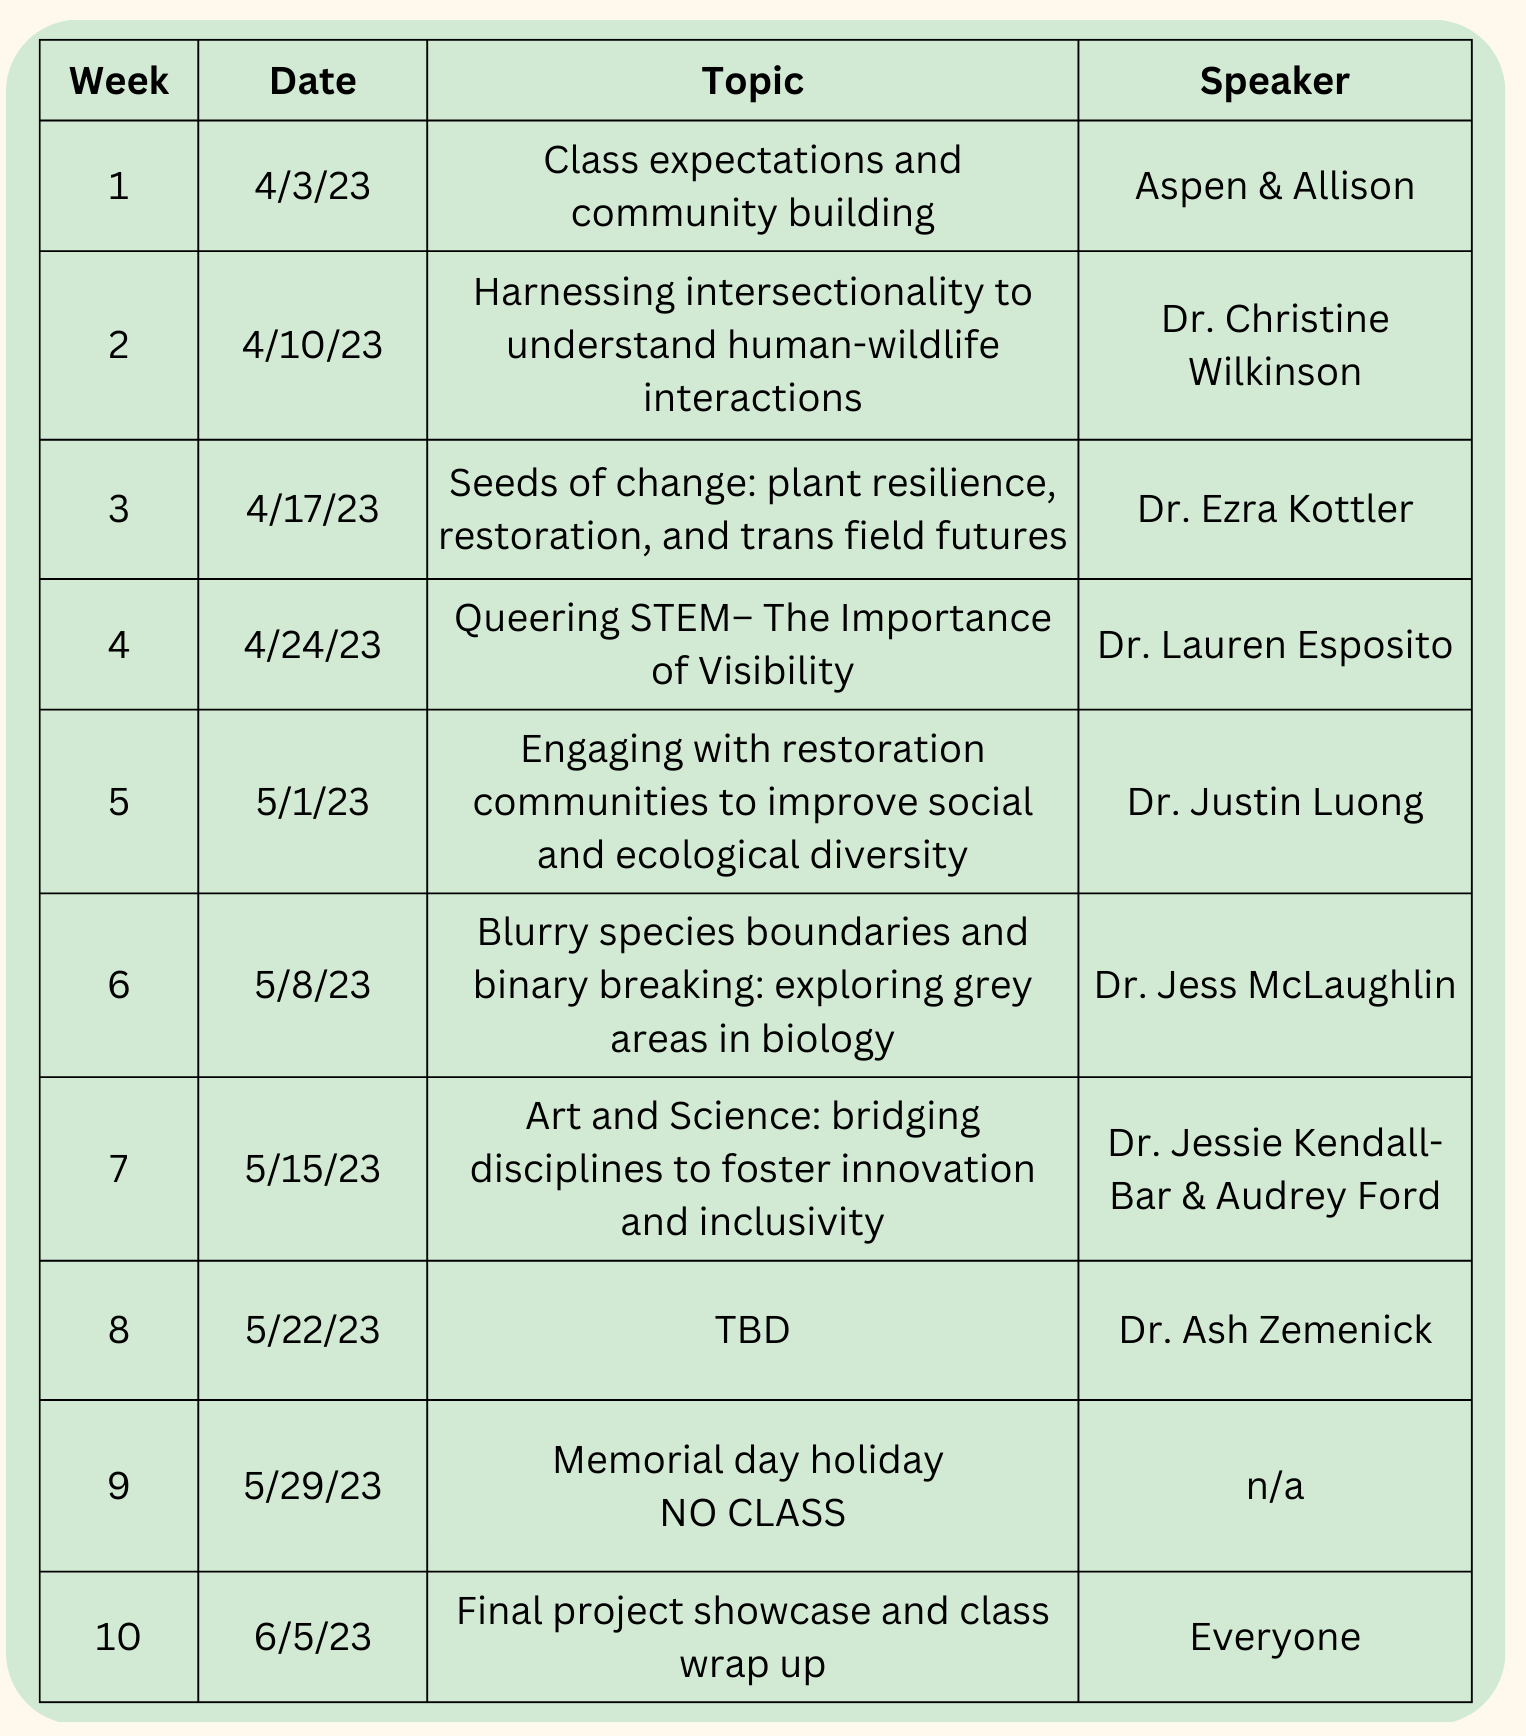
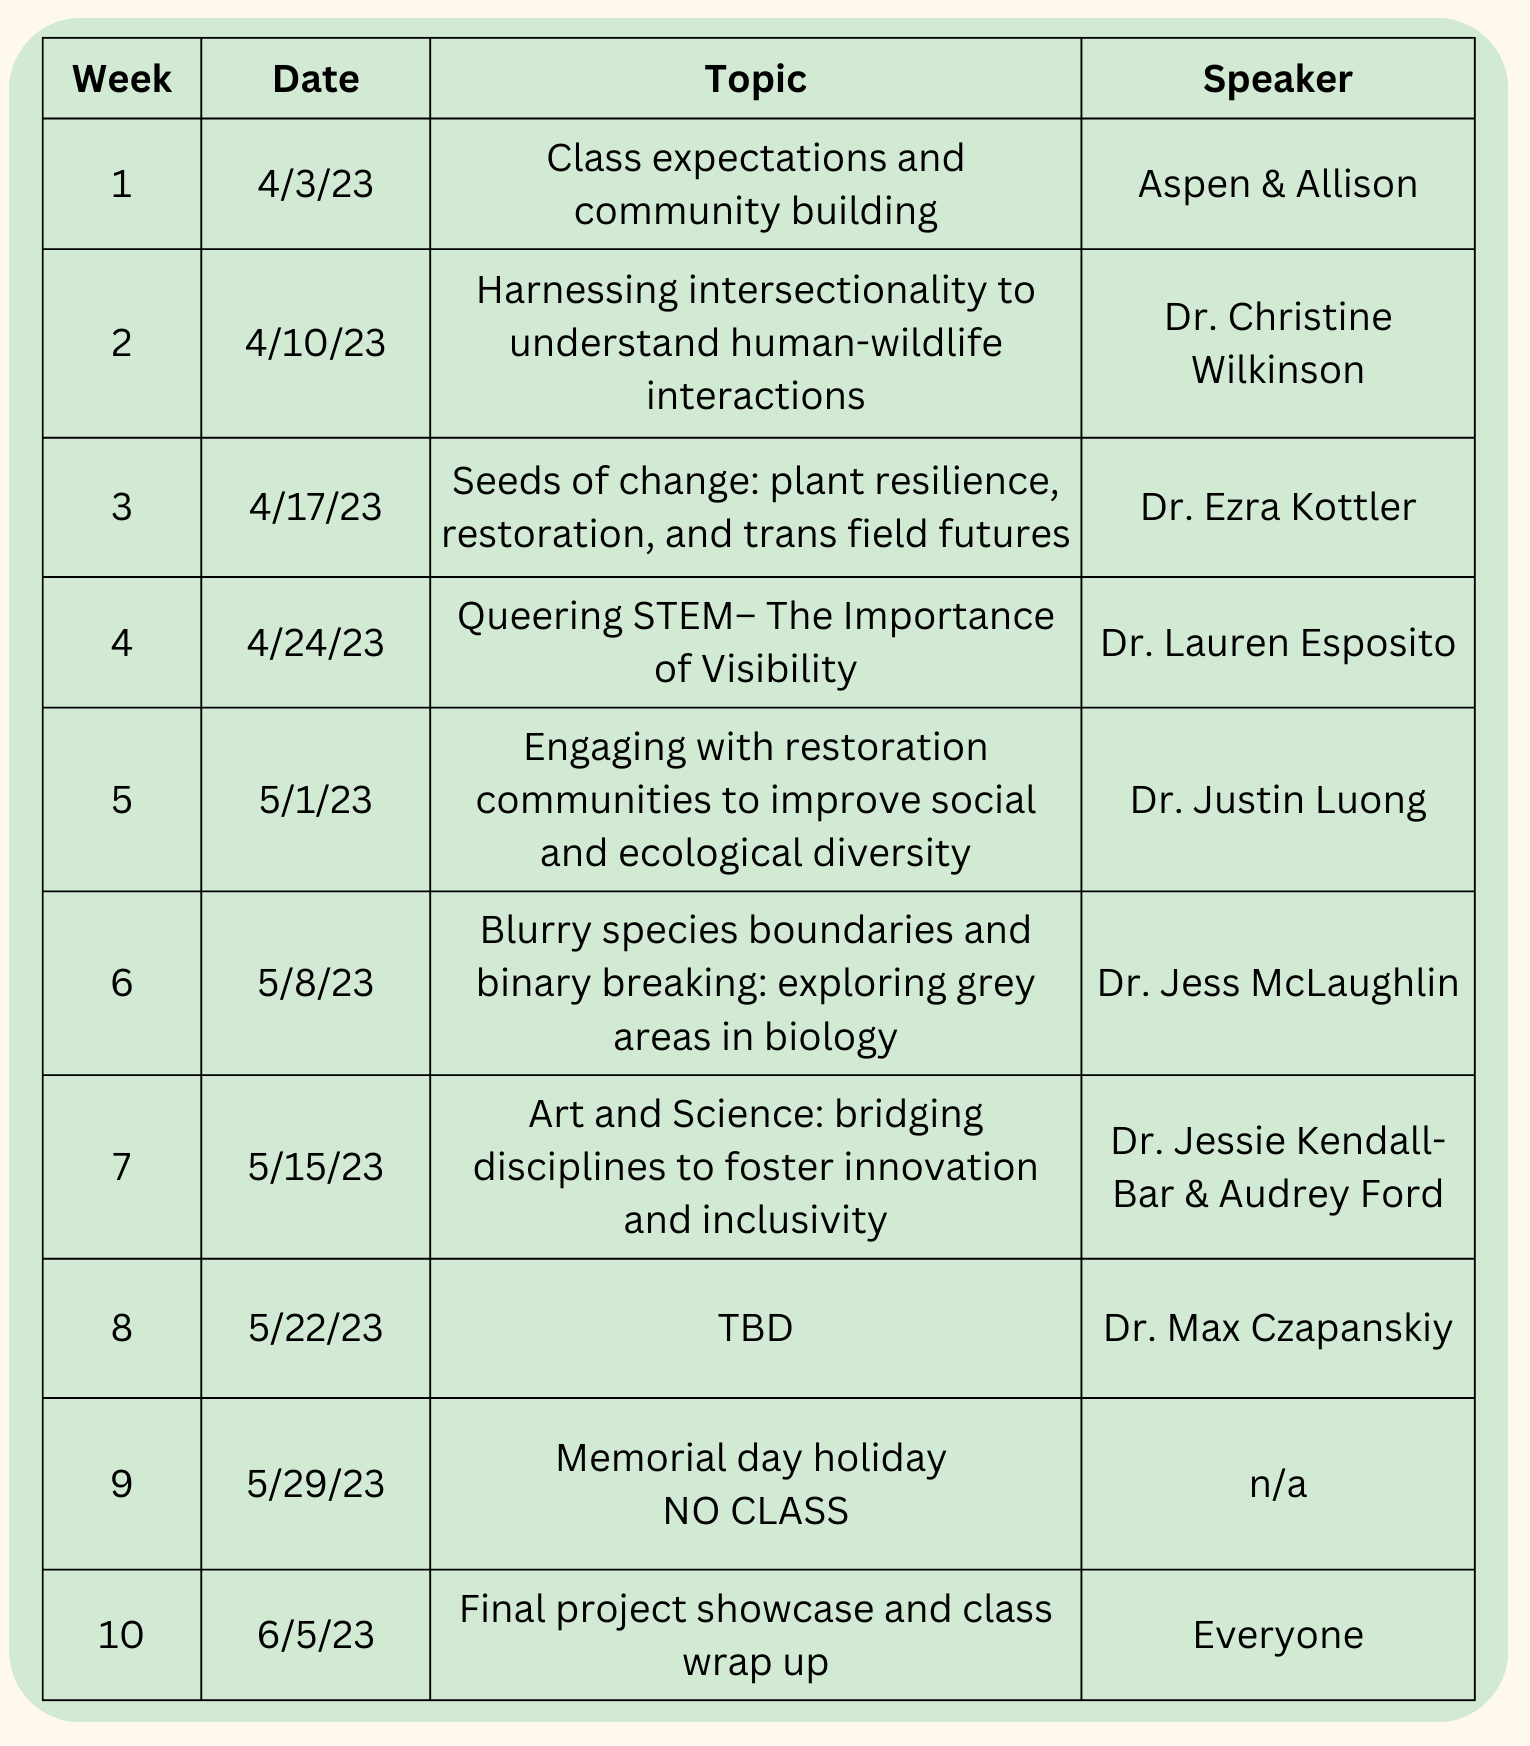
Updating the website with Max's basic information

diff --git a/docs/course/week8.html b/docs/course/week8.html
@@ -161,7 +161,7 @@ ul.task-list li input[type="checkbox"] {
     <h2 id="toc-title">On this page</h2>
    
   <ul>
-  <li><a href="#speaker-dr.-ash-zemenick" id="toc-speaker-dr.-ash-zemenick" class="nav-link active" data-scroll-target="#speaker-dr.-ash-zemenick">Speaker: Dr.&nbsp;Ash Zemenick</a></li>
+  <li><a href="#speaker-dr.-max-czapanskiy" id="toc-speaker-dr.-max-czapanskiy" class="nav-link active" data-scroll-target="#speaker-dr.-max-czapanskiy">Speaker: Dr.&nbsp;Max Czapanskiy</a></li>
   <li><a href="#assigned-reading" id="toc-assigned-reading" class="nav-link" data-scroll-target="#assigned-reading">Assigned reading</a></li>
   </ul>
 </nav>
@@ -186,15 +186,15 @@ ul.task-list li input[type="checkbox"] {
 
 </header>
 
-<section id="speaker-dr.-ash-zemenick" class="level2">
-<h2 class="anchored" data-anchor-id="speaker-dr.-ash-zemenick">Speaker: Dr.&nbsp;Ash Zemenick</h2>
+<section id="speaker-dr.-max-czapanskiy" class="level2">
+<h2 class="anchored" data-anchor-id="speaker-dr.-max-czapanskiy">Speaker: Dr.&nbsp;Max Czapanskiy</h2>
 <div class="columns">
 <div class="column" style="width:35%;">
-<p>More information soon!</p>
+<p><img src="../img/max_headshot.jpeg" class="img-fluid"></p>
 </div><div class="column" style="width:5%;">
 
 </div><div class="column" style="width:60%;">
-
+<p>Max is a postdoctoral scholar with NOAA's Southwest Fisheries Science Center and UC Santa Cruz's Ocean Sciences Department working at the intersection of ecology and software engineering. He develops educational resources and computational tools that promote open science.</p>
 </div>
 </div>
 </section>

diff --git a/docs/course/week4.html b/docs/course/week4.html
@@ -202,6 +202,7 @@ ul.task-list li input[type="checkbox"] {
 <section id="assigned-reading" class="level2">
 <h2 class="anchored" data-anchor-id="assigned-reading">Assigned reading</h2>
 <p>“Measuring What We Don’t Know: Biodiversity Catalogs Reveal Bias in Taxonomic Effort”: <a href="https://academic.oup.com/bioscience/article-abstract/73/2/112/7067488" class="uri">https://academic.oup.com/bioscience/article-abstract/73/2/112/7067488</a></p>
+<p>500 Queer Scientists website: <a href="https://500queerscientists.com/" class="uri">https://500queerscientists.com/</a></p>
 
 
 </section>
